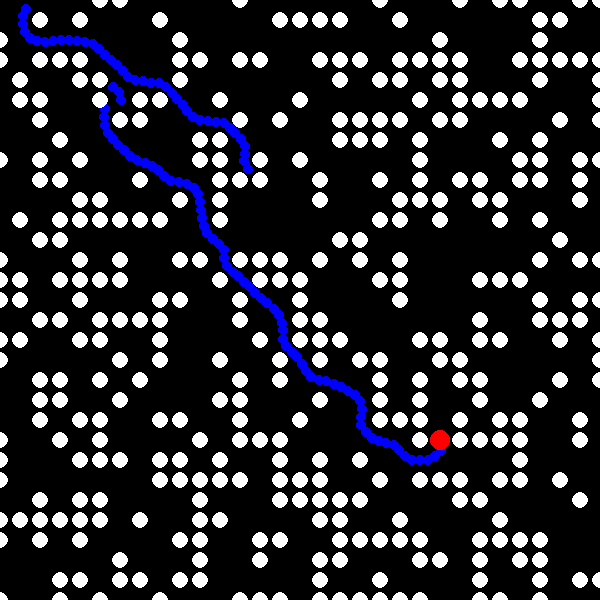
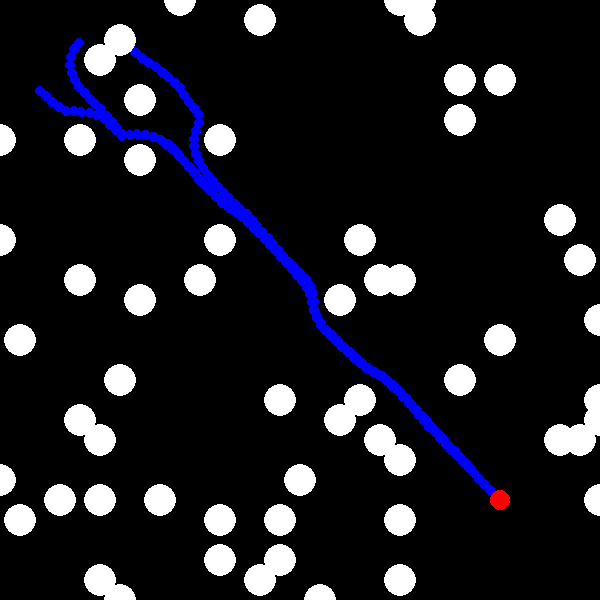
Hyperparameters done

diff --git a/Hyperparameter_tuner.py b/Hyperparameter_tuner.py
@@ -5,21 +5,24 @@ import matplotlib.pyplot as plt
 import numpy as np
 from scipy.stats import norm
 
-step_limit = 500
-safety_goal = 0.5 #Goals for smallest distance to target in a set of 100 succesful runs (meter)
+step_limit = 250
+minimum_safety = 0.8 # 2 sigma safety (97.72% safe)
 
 # Hyperparameters
-algorithm = 1
-alpha_t = 10000
-mu_t = 0.0017
-alpha_o = 430
-mu_o = 3.6
+algorithm = 2
+alpha_t = 100
+mu_t = 0.002
+alpha_o = 8
+mu_o = 1.5
 
 def simulate():
-    setup = Setup(algorithm) 
+    setup = Setup(algorithm)
+    setup.nr_agents = 1
+    setup.obst_N_lower = 60 #influenced by values in paper 
+    setup.obst_N_upper = 80 
 
     #Create agent
-    agent = a.Agent(setup)
+    agent = a.Agent(setup, "placeholder", "placeholder")
 
     #Create environment according to setup
     env = e.Environment(setup)
@@ -63,19 +66,26 @@ def simulate():
     else:
         return False
 
-num_samples = 300 # Run the simulation multiple times to average out randomness
+num_samples = 1000 # Run the simulation multiple times to average out randomness
 results = []
+print("Simulating algorithm " + str(algorithm) + " with following hyperparameters: " + str(alpha_t) + ", " + str(mu_t) + ", " + str(alpha_o) + ", " + str(mu_o))
 while len(results) < num_samples:
+    print(str(len(results)) + " runs", end='\r')
+    if len(results) % 100 == 0:
+        print(str(len(results)) + " runs", end='\r')
     try:
         min_distance = simulate()
     except:
         min_distance = False
-    if min_distance: # If the run was succesful and an actual value was presented
+    if min_distance and not min_distance == 1: # If the run was succesful and an actual value was presented
         results.append(min_distance)
 min_result = min(results)
 avg_result = sum(results) / len(results)
+sorted_results = sorted(results)
+goal_result = sorted_results[int(0.0228*num_samples)]
 print("Minimum clearance: " + str(round(min_result, 3)))
 print("Average clearance: " + str(round(avg_result, 3)))
+print("2 sigma safety clearance: " + str(round(goal_result, 3)))
 
 # Plot the histogram of the data
 plt.hist(results, bins=50, density=True, alpha=0.6, color='blue', label='Data')

diff --git a/Setup.py b/Setup.py
@@ -63,26 +63,12 @@ class Setup:
 
         # Simulation Hyperparameter values (from https://ieeexplore-ieee-org.tudelft.idm.oclc.org/document/10115857)
         self.range = 8
-        self.obst_radius_inner = 0.4
+        self.obst_radius_inner = 0.6
         self.obst_radius_outer = 4.5
-
-        # Unfortunately, these parameters are highly dependent on the APF algorithm to work.
-       
-        if self.algorithm == 0:
-            self.alpha_t = 10000 * 1
-            self.mu_t = 1 * 0.0017
-            self.alpha_o = 1 * 430 #was 1, changed it (no specific reason why this value) to see the influence of obstacles in the simulation
-            self.mu_o = 1000 * 0.0036
-        elif self.algorithm == 1:
-            self.alpha_t = 10000
-            self.mu_t = 0.8
-            self.alpha_o = 600
-            self.mu_o = 50
-        else:
-            self.alpha_t = 10000
-            self.mu_t = 1
-            self.alpha_o = 1
-            self.mu_o = 1000
+        self.alpha_t = 100
+        self.mu_t = 0.002
+        self.alpha_o = 8
+        self.mu_o = 1.5
         
 
         #--------------Performance matrix----------------------------- 
